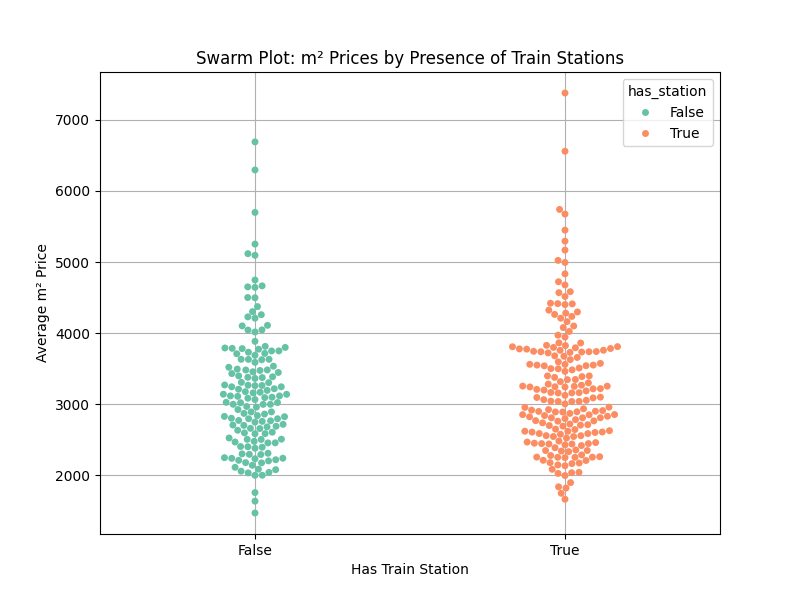
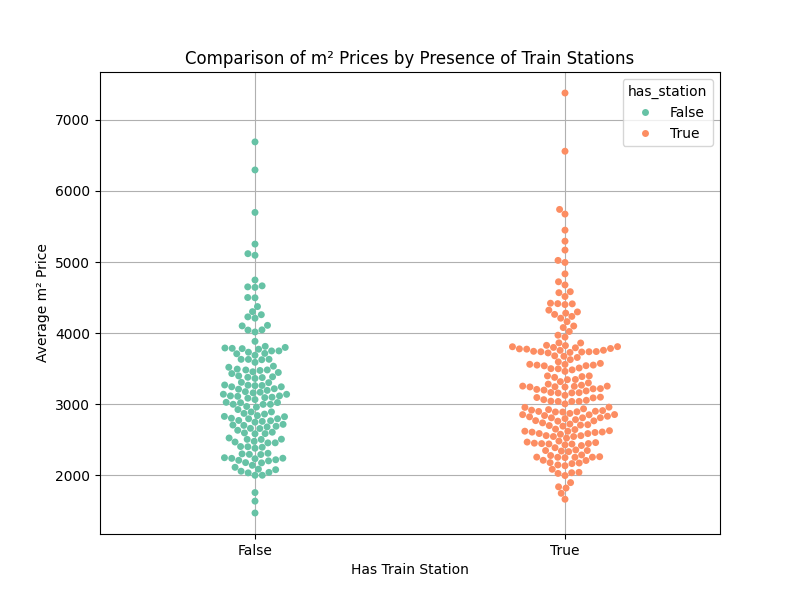
phase 1 statistical tests

Changed region(s): [[0.2188, 0.06, 0.8125, 0.12]]

diff --git a/src/analysis/phase_1/tests.py b/src/analysis/phase_1/tests.py
@@ -1,0 +1,119 @@
+import pandas as pd
+import os 
+from scipy.stats import shapiro, levene, ttest_ind, mannwhitneyu
+from src.analysis.utils import dir_path
+
+def run_tests(df: pd.DataFrame) -> dict:
+    """
+    Run the tests for the Phase 1 analysis.
+    Checks for normality via a Shapiro-Wilk test.
+    Checks for homogeneity of variance via a Levene test.
+    Runs a t-test or a Mann-Whitney U test based on the normality test
+    to compare the m² prices of municipalities with and without train stations.
+
+    Parameters:
+        df (pd.DataFrame): The main dataset.
+    
+    Returns:
+        dict: A dictionary with test names, statistics, and p-values.
+    """
+    print("Running tests...")
+
+    # Split the data into two groups based on the presence of train stations
+    with_station = df[df['has_station']]['m2_price']
+    without_station = df[~df['has_station']]['m2_price']
+
+    # Normality test (Shapiro-Wilk) for both groups
+    shapiro_with_station = shapiro(with_station)
+    shapiro_without_station = shapiro(without_station)
+
+    # Homogeneity of variances test (Levene's test)
+    levene_test = levene(with_station, without_station)
+
+    # Decide which test to use for comparing the groups based on normality and variance results
+    if shapiro_with_station.pvalue > 0.05 and shapiro_without_station.pvalue > 0.05 and levene_test.pvalue > 0.05:
+        # Use an independent t-test
+        test_result = ttest_ind(with_station, without_station, equal_var=True)
+        test_type = 'Independent t-test'
+    else:
+        # Use Mann-Whitney U test
+        test_result = mannwhitneyu(with_station, without_station, alternative='two-sided')
+        test_type = 'Mann-Whitney U test'
+
+    # Compile results into a readable format, including statistics
+    results = {
+        'Normality Test (With Station) Statistic': shapiro_with_station.statistic,
+        'Normality Test (With Station) P-value': shapiro_with_station.pvalue,
+        'Normality Test (Without Station) Statistic': shapiro_without_station.statistic,
+        'Normality Test (Without Station) P-value': shapiro_without_station.pvalue,
+        'Levene Test for Equal Variances Statistic': levene_test.statistic,
+        'Levene Test for Equal Variances P-value': levene_test.pvalue,
+        'Statistical Test': test_type,
+        'Test Statistic': test_result.statistic,
+        'P-value': test_result.pvalue
+    }
+
+    print("Tests complete.")
+    return results
+
+
+def save_test_results(results: dict, output_file: str) -> None:
+    """
+    Save the test results to a LaTeX-formatted table.
+
+    Parameters:
+        results (dict): The test results.
+        output_filename (str): The filename to save the LaTeX output.
+
+    Returns:
+        None
+    """
+    print("Saving test results as LaTeX table...")
+
+    latex_table = """
+    \\begin{table}
+        \\centering
+        \\caption{Statistical Test Results}
+        \\label{tab:test_results}
+        \\vspace{10pt}
+        \\begin{tabular}{@{\extracolsep{5pt}} l c c}
+            \\hline
+            \\hline \\\[-1.8ex]
+            \\textbf{Test Name} & \\textbf{Test Statistic} & \\textbf{P-value} \\\\
+            \\hline \\\[-1.8ex]
+    """
+
+    # Adding each test's name, statistic, and p-value to the LaTeX table
+    latex_table += f'            Normality Test (With Station) & {results["Normality Test (With Station) Statistic"]:.4f} & {results["Normality Test (With Station) P-value"]:.4f} \\\\\n'
+    latex_table += f'            Normality Test (Without Station) & {results["Normality Test (Without Station) Statistic"]:.4f} & {results["Normality Test (Without Station) P-value"]:.4f} \\\\\n'
+    latex_table += f'            Levene Test for Equal Variances & {results["Levene Test for Equal Variances Statistic"]:.4f} & {results["Levene Test for Equal Variances P-value"]:.4f} \\\\\n'
+    latex_table += f'            {results["Statistical Test"]} & {results["Test Statistic"]:.4f} & {results["P-value"]:.4f} \\\\\n'
+
+    latex_table += """
+            \\hline
+            \\hline
+        \\end{tabular}
+    \\end{table}
+    """
+
+    with open(output_file, 'w') as f:
+        f.write(latex_table)
+
+
+output_path = os.path.join(dir_path, '../../output/tables/phase_1')
+
+def run_and_save_tests(df: pd.DataFrame) -> None:
+    """
+    Run the tests and save the results to a LaTeX-formatted table.
+
+    Parameters:
+        df (pd.DataFrame): The main dataset.
+        output_file (str): The filename to save the LaTeX output.
+
+    Returns:
+        None
+    """
+    results = run_tests(df)
+    save_test_results(results, os.path.join(output_path, 'tests.tex'))
+
+    return

diff --git a/output/tables/phase_1/tests.tex b/output/tables/phase_1/tests.tex
@@ -1,0 +1,21 @@
+
+    \begin{table}[ht]
+        \centering
+        \caption{Statistical Test Results}
+        \label{tab:test_results}
+        \vspace{10pt}
+        \begin{tabular}{@{\extracolsep{5pt}} l c c}
+            \hline
+            \hline \\[-1.8ex]
+            \textbf{Test Name} & \textbf{Test Statistic} & \textbf{P-value} \\
+            \hline \\[-1.8ex]
+                Normality Test (With Station) & 0.9297 & 0.0000 \\
+            Normality Test (Without Station) & 0.9402 & 0.0000 \\
+            Levene Test for Equal Variances & 0.1279 & 0.7208 \\
+            Mann-Whitney U test & 14816.0000 & 0.6298 \\
+
+            \hline
+            \hline
+        \end{tabular}
+    \end{table}
+    

diff --git a/src/analysis/main.py b/src/analysis/main.py
@@ -3,6 +3,7 @@ import os
 
 from src.analysis.phase_1.plots import plots_station_no_station
 from src.analysis.phase_1.tables import create_tables
+from src.analysis.phase_1.tests import run_and_save_tests
 from src.analysis.utils import dir_path
 
 def run_phase_1(df: pd.DataFrame) -> None:
@@ -22,6 +23,9 @@ def run_phase_1(df: pd.DataFrame) -> None:
 
     # Create figures for comparison of m² prices by presence of train stations
     plots_station_no_station(df)
+
+    # Run tests and save the results
+    run_and_save_tests(df)
 
     print("Phase 1 analysis complete")
     return 

diff --git a/src/analysis/phase_1/tables.py b/src/analysis/phase_1/tables.py
@@ -16,7 +16,7 @@ def create_summary_statistics(df: pd.DataFrame, output_file: str) -> None:
     summary_stats = df.describe().T
 
     latex_table = """
-    \\begin{table}[H] 
+    \\begin{table}
       \\centering 
       \\caption{Summary statistics for all numeric columns} 
       \\vspace{10pt}
@@ -52,3 +52,5 @@ def create_tables(df: pd.DataFrame) -> None:
         None
     """
     create_summary_statistics(df, os.path.join(output_path, 'summary_statistics.tex'))  
+
+    return

diff --git a/src/analysis/phase_1/plots.py b/src/analysis/phase_1/plots.py
@@ -17,6 +17,8 @@ def plots_station_no_station(df: pd.DataFrame) -> None:
     Returns:
         None
     """
+    print("Creating plots...")
+
     # Categorize municipalities by presence of train stations
     df['has_station'] = df['station_count'] > 0
 

diff --git a/output/tables/phase_1/summary_statistics.tex b/output/tables/phase_1/summary_statistics.tex
@@ -1,5 +1,5 @@
 
-    \begin{table}[H] 
+    \begin{table}
       \centering 
       \caption{Summary statistics for all numeric columns} 
       \vspace{10pt}
